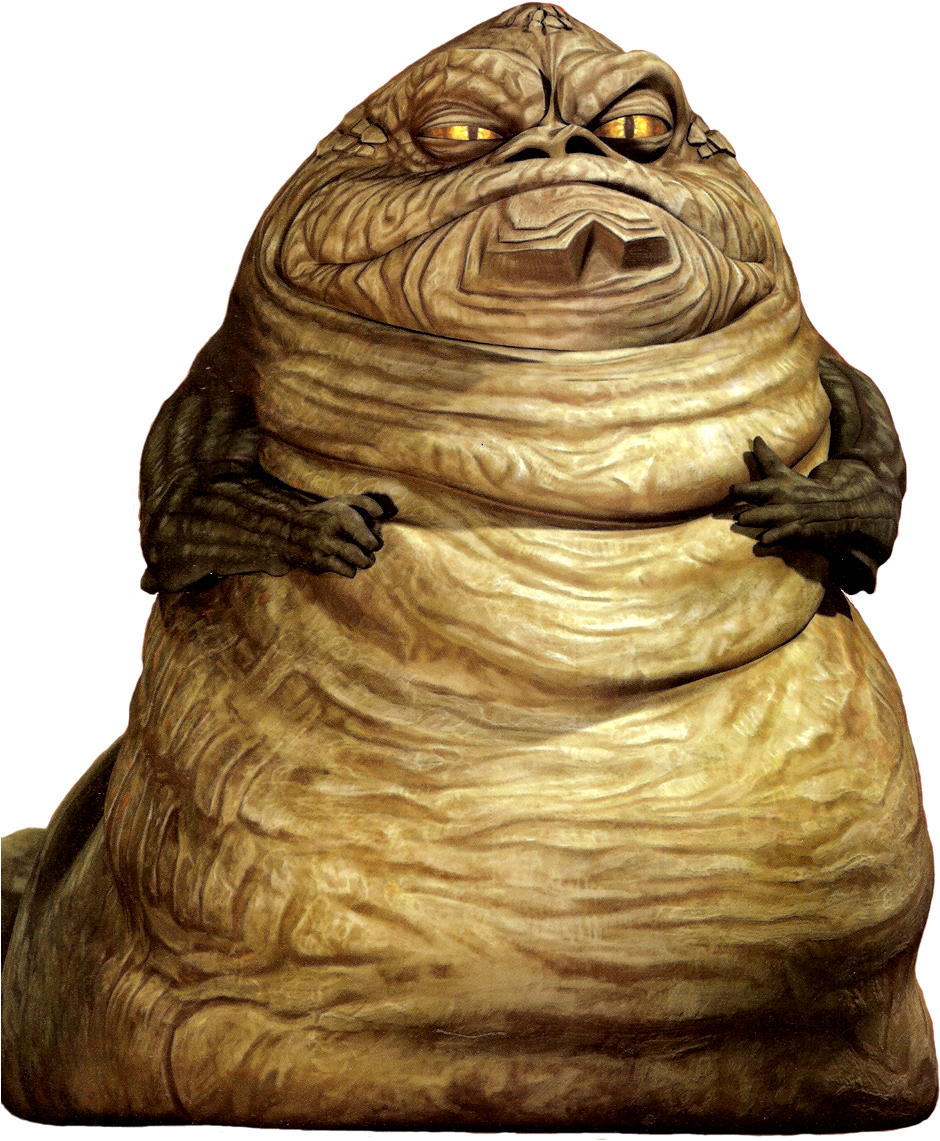
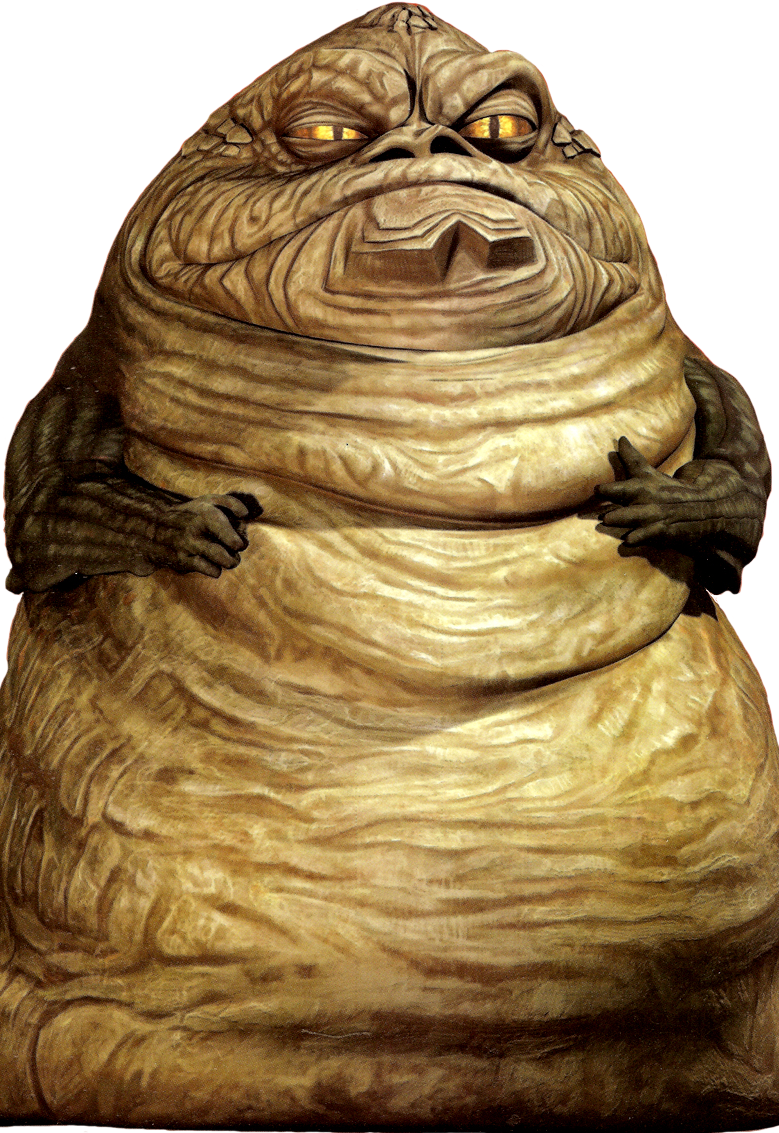
fixed spacing of card images

diff --git a/src/app/components/planet-select/planet-select.component.html b/src/app/components/planet-select/planet-select.component.html
@@ -9,16 +9,22 @@
             background-repeat: no-repeat;
             background-size: 100%;">
 
-<section class="card" *ngIf="!isCharSelected">
+  <section class="card" *ngIf="!isCharSelected">
     <h4 class="card-header mb-0">Choose a Character!</h4>
     <div class="card-body">
-      <div class="row row-cols-1 row-cols-md-2 row-cols-lg-3 g-2">
+      <div class="row row-cols-1 row-cols-md-2 row-cols-lg-5 g-2">
         <div *ngFor="let char of characters" class="col">
           <div class="card">
-            <img src="{{ char.imageUrl }}" alt="Image of {{ char.name }}" class="card-img-top">
+            <div class="text-center">
+              <img src="{{ char.imageUrl }}" alt="Image of {{ char.name }}" class="card-img-top" style="height: 19vw;
+            width: 14vw;
+            align-items: center;">
+            </div>
+
             <div class="list-group list-group-flush small">
               <div class="list-group-item h5 mb-0">{{ char.name }}</div>
-              <div class="list-group-item">Species: {{ char.species.speciesName.charAt(0).toUpperCase() }}{{ char.species.speciesName.substr(1) }}</div>
+              <div class="list-group-item">Species: {{ char.species.speciesName.charAt(0).toUpperCase() }}{{
+                char.species.speciesName.substr(1) }}</div>
               <div class="list-group-item">Level {{ char.stats.level }} ({{ char.stats.experience }} EXP)</div>
               <div class="list-group-item">Health: {{ char.stats.health }} </div>
               <div class="list-group-item">
@@ -38,7 +44,7 @@
                 </div>
               </div>
               <div class="list-group-item character-actions">
-                <div class="btn-group btn-group-sm">
+                <div class="btn-group btn-group-md">
                   <!-- Add action buttons here -->
                   <a class="btn btn-outline-primary" (click)="selectChar(char)">Select</a>
                 </div>
@@ -51,23 +57,21 @@
   </section>
 
   <section *ngIf="isCharSelected">
-      
-          <div class="hoth">
-              <img [ngStyle]="{'width': hoth.diameter + 'px'}" class="planet" src="../../../assets/Hoth.png"
-                  alt="hoth">
-          </div>
-          <div class="endor">
-              <img [ngStyle]="{'width': hoth.diameter + 'px'}" class="planet" src="../../../assets/Endor.png"
-                  alt="endor">
-          </div>
-      
-          <div class="tatooine">
-              <img routerLink="/play" [ngStyle]="{'width': tatooine.diameter + 'px'}" class="planet"
-                  src="../../../assets/tatooine.png" alt="tatooine">
-          </div>
+
+    <div class="hoth">
+      <img [ngStyle]="{'width': hoth.diameter + 'px'}" class="planet" src="../../../assets/Hoth.png" alt="hoth">
+    </div>
+    <div class="endor">
+      <img [ngStyle]="{'width': hoth.diameter + 'px'}" class="planet" src="../../../assets/Endor.png" alt="endor">
+    </div>
+
+    <div class="tatooine">
+      <img routerLink="/play" [ngStyle]="{'width': tatooine.diameter + 'px'}" class="planet"
+        src="../../../assets/tatooine.png" alt="tatooine">
+    </div>
 
 
   </section>
 
-    
+
 </div>

diff --git a/src/app/components/info-menu/info-menu.component.html b/src/app/components/info-menu/info-menu.component.html
@@ -7,7 +7,9 @@
           <div class="row row-cols-1 row-cols-md-2 row-cols-lg-3 g-2">
             <div *ngFor="let char of characters" class="col">
               <div class="card">
-                <img src="{{ char.imageUrl }}" alt="Image of {{ char.name }}" class="card-img-top">
+                <img src="{{ char.imageUrl }}" alt="Image of {{ char.name }}" class="card-img-top" style="height: 19vw;
+                width: 14vw;
+                align-items: center;">
                 <div class="list-group list-group-flush small">
                   <div class="list-group-item h5 mb-0">{{ char.name }}</div>
                   <div class="list-group-item">Species: {{ char.species.speciesName.charAt(0).toUpperCase() }}{{ char.species.speciesName.substr(1) }}</div>

diff --git a/src/app/components/combat/combat.component.css b/src/app/components/combat/combat.component.css
@@ -4,16 +4,10 @@
   width: 20rem;
   text-align: center;
   background-color: black;
-
-
-
-
   border-radius: 4px;
-  
   box-shadow: 0 6px 10px rgba(0, 0, 0, .08), 0 0 6px rgba(0, 0, 0, .05);
   transition: .3s transform cubic-bezier(.155, 1.105, .295, 1.12), .3s box-shadow, .3s -webkit-transform cubic-bezier(.155, 1.105, .295, 1.12);
  
-
 }
 
 .card:hover {
